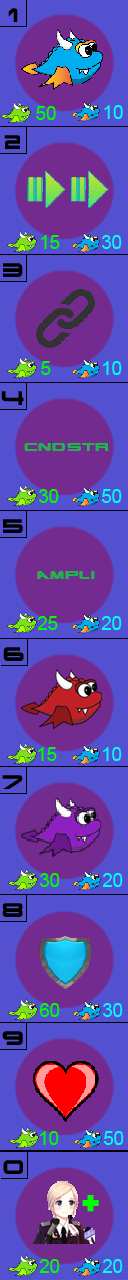
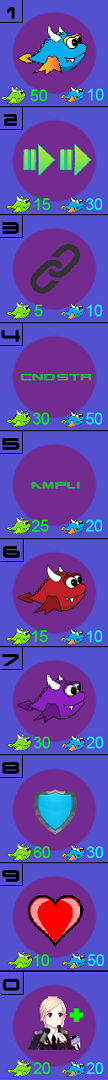
HUD image displayed w/ split screen supported

diff --git a/Unstable/StarFighter/StarFighter/Game.cpp b/Unstable/StarFighter/StarFighter/Game.cpp
@@ -13,7 +13,7 @@ const char* GameObjectTypeValues[] =
 void Game::init(RenderWindow* window)
 {
 	this->window = window;
-	this->mainScreen.create(REF_WINDOW_RESOLUTION_X, REF_WINDOW_RESOLUTION_Y, false);
+	this->mainScreen.create(REF_WINDOW_RESOLUTION_X - HUD_PANEL_SIZE_X - (USE_SPLIT_SCREEN * HUD_PANEL_SIZE_X), REF_WINDOW_RESOLUTION_Y, false);
 	this->mainScreen.setSmooth(true);
 
 	scale_factor.x = 1.0f * WINDOW_RESOLUTION_X / REF_WINDOW_RESOLUTION_X;
@@ -21,15 +21,13 @@ void Game::init(RenderWindow* window)
 	screen_size = sf::Vector2i(WINDOW_RESOLUTION_X, WINDOW_RESOLUTION_Y);
 
 	//HUD
-	m_module_HUD = new GameObject(sf::Vector2f(screen_size.x + 128 / 2, screen_size.y / 2), sf::Vector2f(0, 0), "Assets/2D/Modules_HUD.png", sf::Vector2f(108, 1080));
+	m_module_HUD = new GameObject(sf::Vector2f(screen_size.x + 128 / 2, screen_size.y / 2), sf::Vector2f(0, 0), "Assets/2D/Modules_HUD.png", sf::Vector2f(HUD_PANEL_SIZE_X, HUD_PANEL_SIZE_Y));
 	m_module_HUD->setColor(sf::Color(255, 255, 255, 200));
-	this->hudScreen.create(REF_WINDOW_RESOLUTION_X, REF_WINDOW_RESOLUTION_Y, false);
+	m_module_HUD->setOrigin(sf::Vector2f(0, 0));
+	m_module_HUD->setPosition(sf::Vector2f(0, 0));
+
+	this->hudScreen.create(HUD_PANEL_SIZE_X, REF_WINDOW_RESOLUTION_Y, false);
 	this->hudScreen.setSmooth(true);
-	//if (USE_SPLIT_SCREEN == true)
-	//{
-	//	this->hudScreen_SplitScreen.create(REF_WINDOW_RESOLUTION_X, REF_WINDOW_RESOLUTION_Y, false);
-	//	this->hudScreen_SplitScreen.setSmooth(true);
-	//}
 
 	//split screens
 	if (USE_SPLIT_SCREEN == true)
@@ -181,8 +179,7 @@ void Game::updateScene(Time deltaTime)
 	//printf("OnScene: %d / Collected: %d\n", this->sceneGameObjects.size(), this->garbage.size());
 
 	//TODO: Updating screen resolution
-	float rescale_for_hud = m_module_HUD->m_size.x / REF_WINDOW_RESOLUTION_X;
-	scale_factor.x = 1.0f * screen_size.x / REF_WINDOW_RESOLUTION_X + rescale_for_hud;
+	scale_factor.x = 1.0f * screen_size.x / REF_WINDOW_RESOLUTION_X;
 	scale_factor.y = 1.0f * screen_size.y / REF_WINDOW_RESOLUTION_Y;
 
 	//Clean garbage
@@ -232,30 +229,6 @@ void Game::ResolveProductionBufferList()
 			continue;
 
 		this->sceneGameObjectsTyped[ModuleObject][i]->ResolveProductionBufferList();
-	}
-}
-
-void Game::drawHud()
-{
-	this->hudScreen.clear();
-
-	if (m_module_HUD)
-	{
-		//adjusting size and position of the HUD according to screen resolution
-		//float resize = 1.f * screen_size.y / m_module_HUD->m_size.y / scale_factor.y;
-		//m_module_HUD->setScale(resize, resize);
-		//m_module_HUD->setPosition(sf::Vector2f(m_module_HUD->m_size.x / 2 * scale_factor.x, screen_size.y / scale_factor.y / 2));
-		m_module_HUD->setOrigin(sf::Vector2f(0, 0));
-		m_module_HUD->setPosition(sf::Vector2f(0 ,0));
-		//view.setSize(sf::Vector2f(m_module_HUD->m_size));
-		
-		hudScreen.draw(*m_module_HUD);
-
-		hudScreen.display();
-		sf::Sprite temp(hudScreen.getTexture());
-		temp.scale(scale_factor.x, scale_factor.y);
-		temp.setPosition(screen_size.x - (m_module_HUD->m_size.x * scale_factor.x), 0);
-		this->window->draw(temp);
 	}
 }
 
@@ -381,8 +354,30 @@ void Game::drawScene()
 	this->mainScreen.display();
 	sf::Sprite temp(this->mainScreen.getTexture());
 	temp.scale(scale_factor.x, scale_factor.y);
-	temp.setPosition(sf::Vector2f(0, 0));
+	temp.setPosition(sf::Vector2f(HUD_PANEL_SIZE_X * scale_factor.x, 0));
 	this->window->draw(temp);
+}
+
+void Game::drawHud()
+{
+	this->hudScreen.clear();
+
+	if (m_module_HUD)
+	{
+		hudScreen.draw(*m_module_HUD);
+
+		hudScreen.display();
+		sf::Sprite temp(hudScreen.getTexture());
+		temp.scale(scale_factor.x, scale_factor.y);
+		temp.setPosition(0, 0);
+		this->window->draw(temp);
+
+		if (USE_SPLIT_SCREEN == true)
+		{
+			temp.setPosition(screen_size.x - (HUD_PANEL_SIZE_X * scale_factor.x), 0);
+			this->window->draw(temp);
+		}
+	}
 }
 
 void Game::colisionChecksV2()

diff --git a/Unstable/StarFighter/StarFighter/Globals.h b/Unstable/StarFighter/StarFighter/Globals.h
@@ -62,6 +62,9 @@ enum TeamAlliances
 #define USE_SMART_ARROWS							true
 
 //HUD
+#define HUD_PANEL_SIZE_X							108
+#define HUD_PANEL_SIZE_Y							1080
+
 #define USE_FEEDBACK_ACTIVATION						true
 #define USE_FEEDBACK_AUTOGENERATION					false
 #define USE_FEEDBACK_GENERATE_FLUXOR				true
